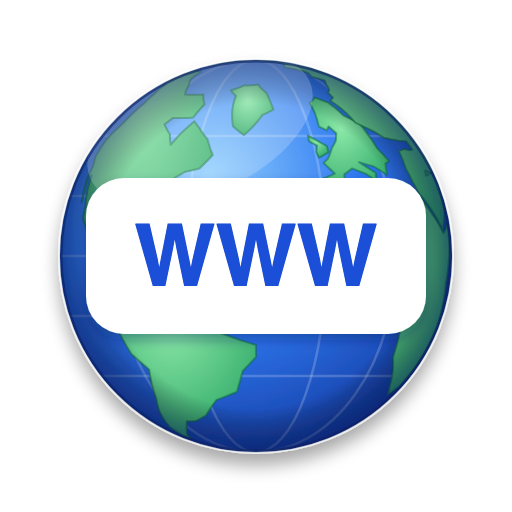
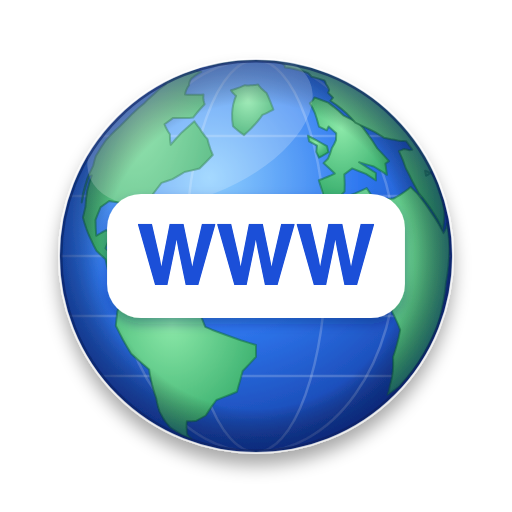
fix: fit the label frame on Network globes to its text (1.6.1)

diff --git a/CHANGELOG.md b/CHANGELOG.md
@@ -5,6 +5,13 @@ All notable changes to this project are documented here. The format loosely foll
 [semantic versioning](https://semver.org/). Everything before 0.2.0 is grouped under 0.1.0,
 the first tagged release.
 
+## [1.6.1] - 2026-11-17
+
+### Fixed
+
+- The labelled globes in Network (DHCP, IP, WWW, Mac, metered, low data, path and service order) hid
+  most of the globe behind an oversized white frame. The frame now fits its text, so the globe shows.
+
 ## [1.6.0] - 2026-11-16
 
 ### Added

diff --git a/README.md b/README.md
@@ -6,7 +6,7 @@ starting to throttle because it is hot.
 
 Requires macOS 15 or later. Apple Silicon.
 
-**Status:** version 1.6.0. Every module below is ported and covered by the parity audit; see
+**Status:** version 1.6.1. Every module below is ported and covered by the parity audit; see
 [`CHANGELOG.md`](CHANGELOG.md) for what has changed and [Known issues](#known-issues) for what is
 understood, small, and not yet worth holding a release for.
 
